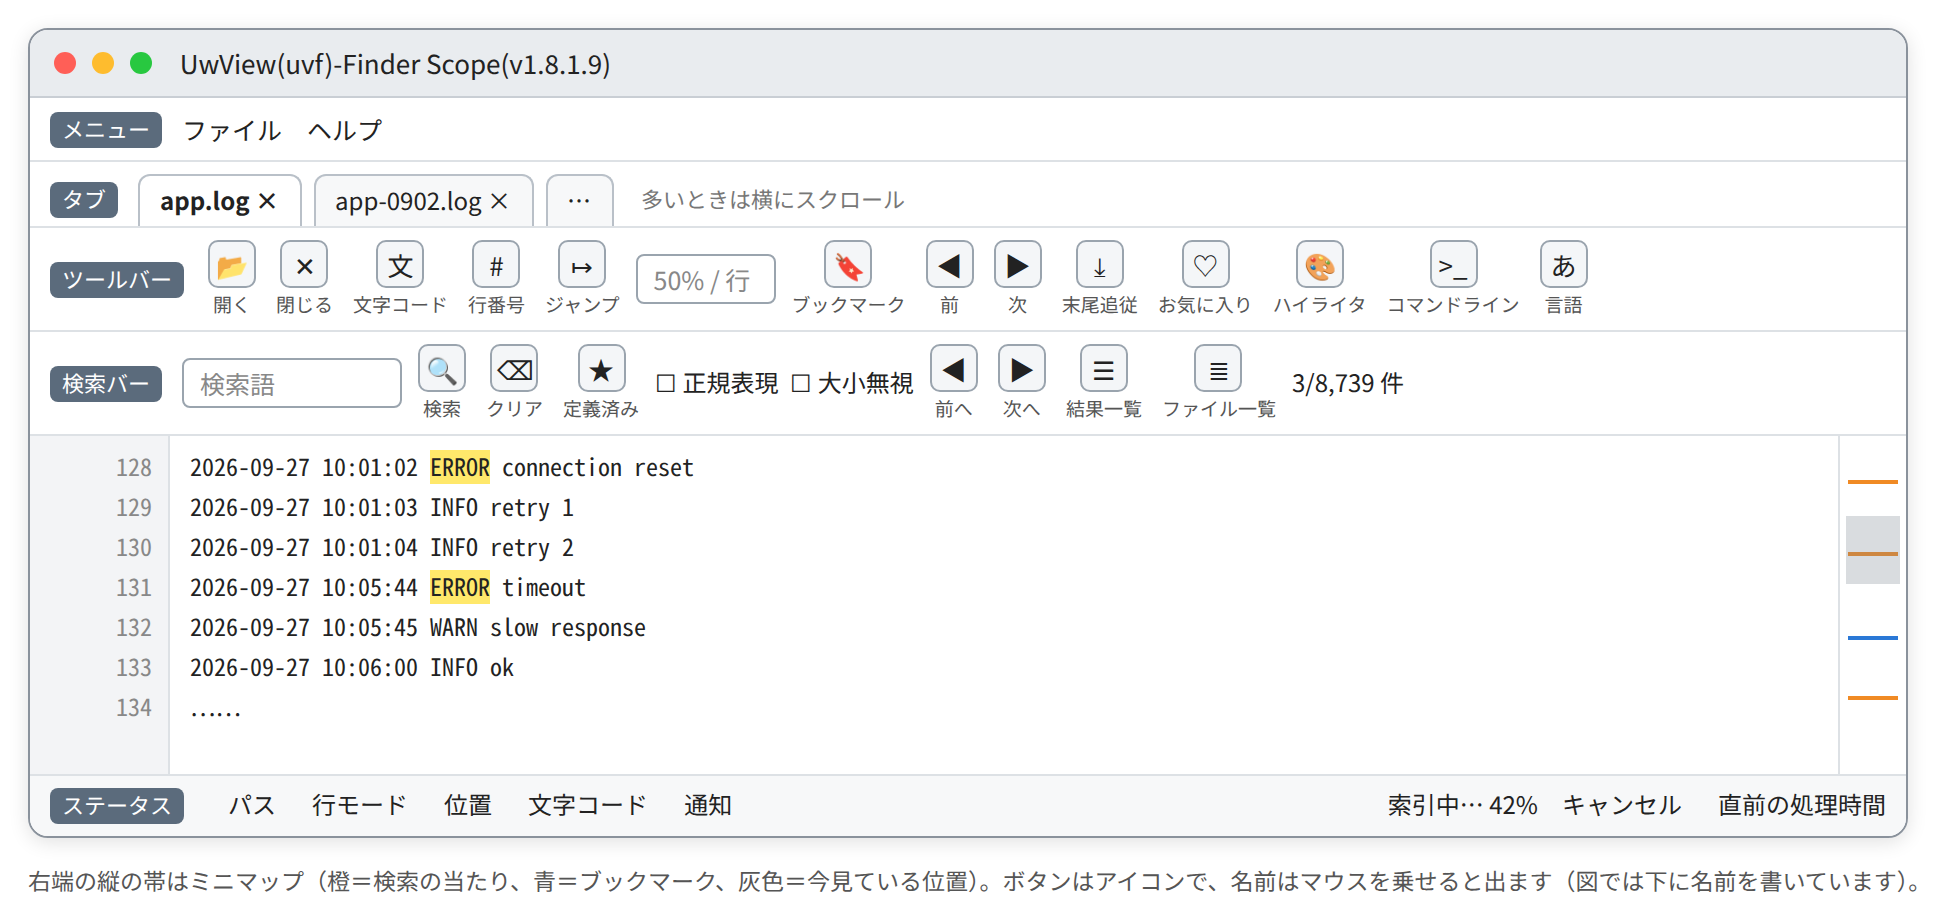
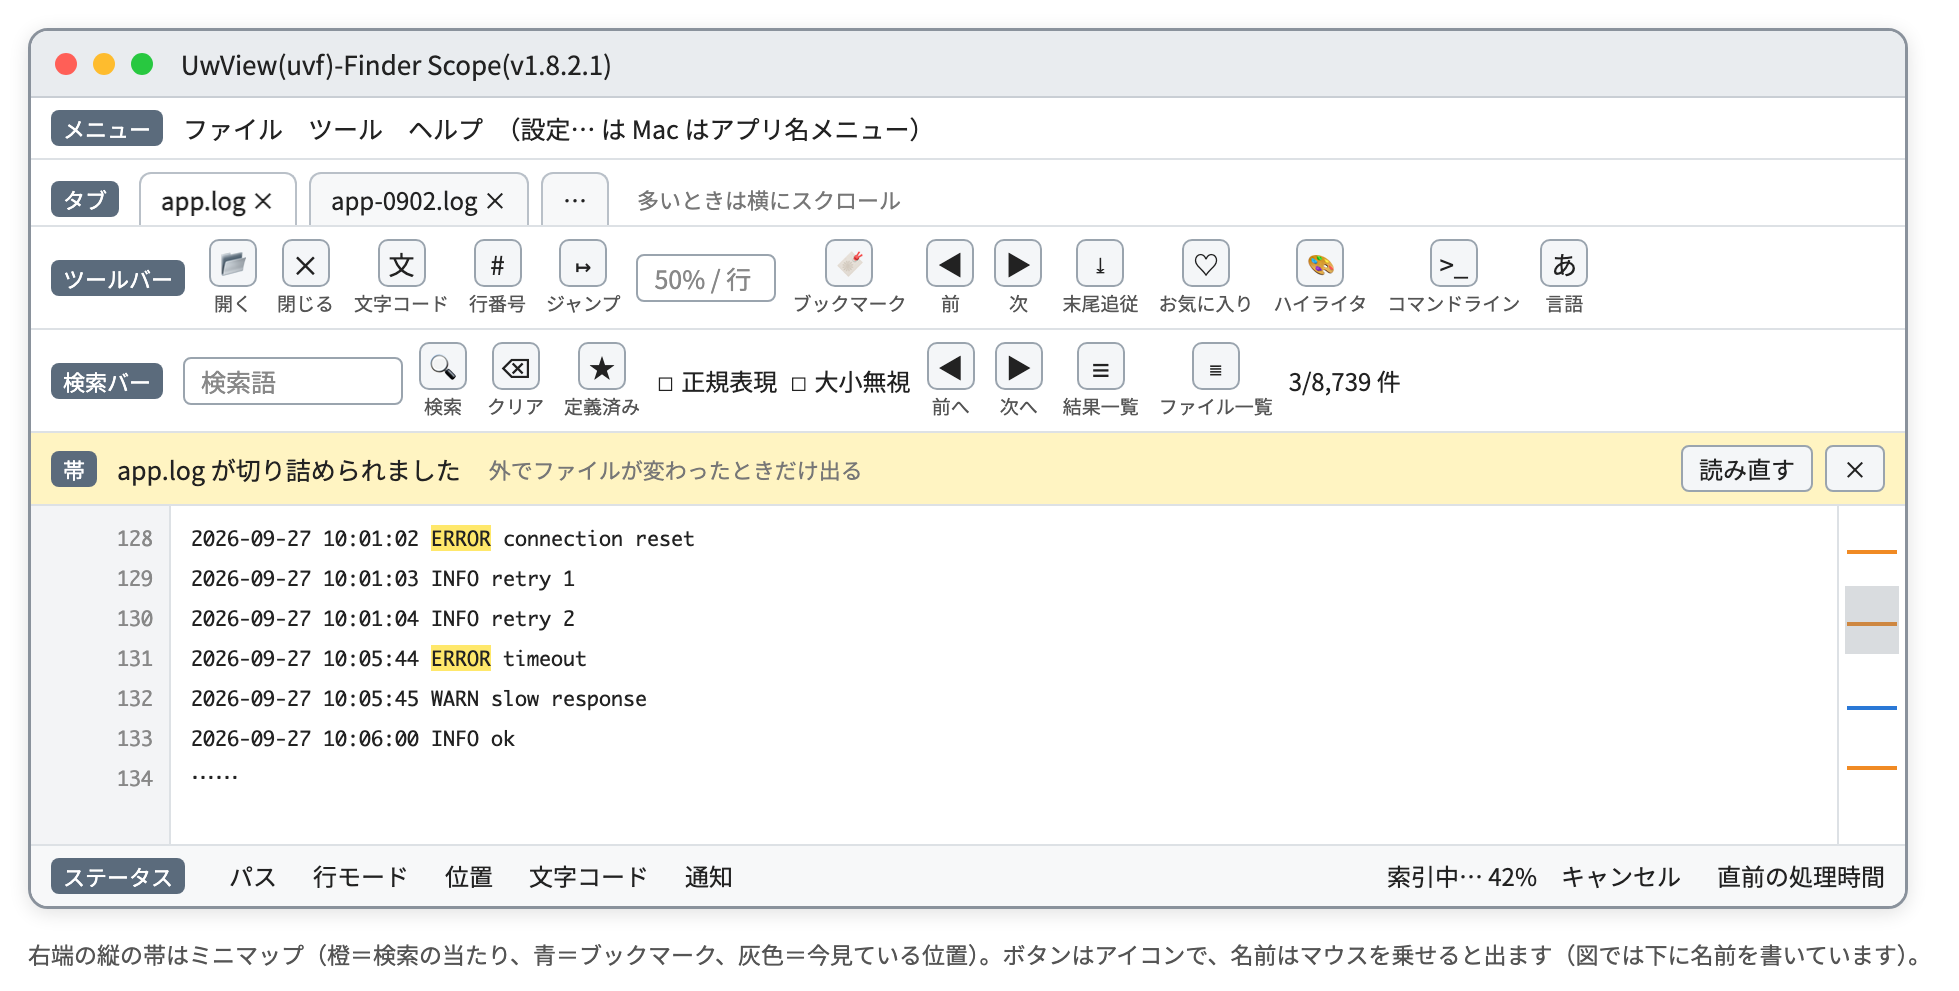
説明書の写しを 1.8.2 に：画面の構成の模式図（v1.8.2.1・ツール・帯）を作り直し、結果一覧のブックマーク・帯・設定（キー・表示）・ダークの写しを足す
ThemeShots は UV_THEME_SHOTS_FILE で開くファイルの場所を決められるようにした（説明書の写しに仮の名前が写らないように）。

Changed region(s): [[0.0, 0.0305, 0.9964, 0.793], [0.0, 0.8235, 0.9653, 0.915], [0.0, 0.9455, 0.9964, 0.976]]

diff --git a/2-doc/pdf-tools/make_gui_figures.py b/2-doc/pdf-tools/make_gui_figures.py
@@ -29,11 +29,12 @@ table{border-collapse:collapse;width:100%;font-size:12.5px} td,th{padding:4px 10
 """
 def ic(g,n): return f'<span class="ic"><b>{g}</b><i>{n}</i></span>'
 main=f"""<div class="win" id="w">
-<div class="title"><span class="dot" style="background:#ff5f57"></span><span class="dot" style="background:#febc2e"></span><span class="dot" style="background:#28c840"></span>&nbsp; UwView(uvf)-Finder Scope(v1.8.1.9)</div>
-<div class="row"><span class="lab">メニュー</span>ファイル　ヘルプ</div>
+<div class="title"><span class="dot" style="background:#ff5f57"></span><span class="dot" style="background:#febc2e"></span><span class="dot" style="background:#28c840"></span>&nbsp; UwView(uvf)-Finder Scope(v1.8.2.1)</div>
+<div class="row"><span class="lab">メニュー</span>ファイル　ツール　ヘルプ　（設定… は Mac はアプリ名メニュー）</div>
 <div class="row" style="padding-bottom:0"><span class="lab">タブ</span><span class="tab on">app.log ×</span><span class="tab">app-0902.log ×</span><span class="tab">…</span><span style="font-size:11px;color:#777;margin-left:8px">多いときは横にスクロール</span></div>
 <div class="row"><span class="lab">ツールバー</span>{ic('📂','開く')}{ic('✕','閉じる')}{ic('文','文字コード')}{ic('#','行番号')}{ic('↦','ジャンプ')}<span class="inp" style="min-width:70px">50% / 行</span>{ic('🔖','ブックマーク')}{ic('◀','前')}{ic('▶','次')}{ic('⤓','末尾追従')}{ic('♡','お気に入り')}{ic('🎨','ハイライタ')}{ic('&gt;_','コマンドライン')}{ic('あ','言語')}</div>
 <div class="row"><span class="lab">検索バー</span><span class="inp">検索語</span>{ic('🔍','検索')}{ic('⌫','クリア')}{ic('★','定義済み')}<span class="chk">☐ 正規表現</span><span class="chk">☐ 大小無視</span>{ic('◀','前へ')}{ic('▶','次へ')}{ic('☰','結果一覧')}{ic('≣','ファイル一覧')}<span style="font-size:12px">3/8,739 件</span></div>
+<div class="row" style="background:#fff4c2"><span class="lab">帯</span>app.log が切り詰められました<span style="font-size:11px;color:#777;margin-left:8px">外でファイルが変わったときだけ出る</span><span class="btn" style="margin-left:auto">読み直す</span><span class="btn">×</span></div>
 <div class="body"><div class="ln">128<br>129<br>130<br>131<br>132<br>133<br>134</div><div class="txt">2026-09-27 10:01:02 <span class="hl">ERROR</span> connection reset<br>2026-09-27 10:01:03 INFO retry 1<br>2026-09-27 10:01:04 INFO retry 2<br>2026-09-27 10:05:44 <span class="hl">ERROR</span> timeout<br>2026-09-27 10:05:45 WARN slow response<br>2026-09-27 10:06:00 INFO ok<br>……</div><div class="mm"><div class="h" style="top:22px"></div><div class="h" style="top:58px"></div><div class="bm" style="top:100px"></div><div class="h" style="top:130px"></div><div class="v"></div></div></div>
 <div class="st"><span class="lab">ステータス</span><span>パス</span><span>行モード</span><span>位置</span><span>文字コード</span><span>通知</span><span style="margin-left:auto">索引中… 42%　キャンセル</span><span>直前の処理時間</span></div>
 </div>

diff --git a/UwView.ThemeShots/ThemeShotTests.cs b/UwView.ThemeShots/ThemeShotTests.cs
@@ -13,6 +13,7 @@ namespace UwView.ThemeShots;
 /// <summary>
 /// uvf の窓をライト／ダーク × 100%／150% で撮る（v1.8.2 extFS E-4 §5）。
 /// 出力: UV_THEME_SHOTS（無ければ一時フォルダーの uv-theme-shots）に <c>{OS}_uvf_{窓}_{テーマ}_{倍率}.png</c>。
+/// 説明書に使うときは UV_THEME_SHOTS_FILE（例 /tmp/logs/app.log）で開くファイルの場所を決める（題名・帯・ステータスに写る）。
 /// </summary>
 public class ThemeShotTests
 {
@@ -52,8 +53,16 @@ public class ThemeShotTests
     [InlineData(AppTheme.Dark)]
     public async Task 窓を撮る(string theme)
     {
-        string path = UiHarness.WriteTempFile(Enumerable.Range(1, 300).Select(i =>
-            $"2026-10-09 12:{i / 60:00}:{i % 60:00}.123 {(i % 7 == 0 ? "ERROR" : i % 5 == 0 ? "WARN" : "INFO")} worker-{i % 9} request id={i:00000} took {i % 97}ms"));
+        var lines = Enumerable.Range(1, 300).Select(i =>
+            $"2026-10-09 12:{i / 60:00}:{i % 60:00}.123 {(i % 7 == 0 ? "ERROR" : i % 5 == 0 ? "WARN" : "INFO")} worker-{i % 9} request id={i:00000} took {i % 97}ms");
+        string path;
+        if (Environment.GetEnvironmentVariable("UV_THEME_SHOTS_FILE") is { Length: > 0 } fixedPath)
+        {
+            Directory.CreateDirectory(Path.GetDirectoryName(Path.GetFullPath(fixedPath))!);
+            File.WriteAllLines(fixedPath, lines);
+            path = Path.GetFullPath(fixedPath);
+        }
+        else path = UiHarness.WriteTempFile(lines);
         var (w, v, vm) = UiHarness.OpenMainWindow();
         AppTheme.Apply(theme);
         try
